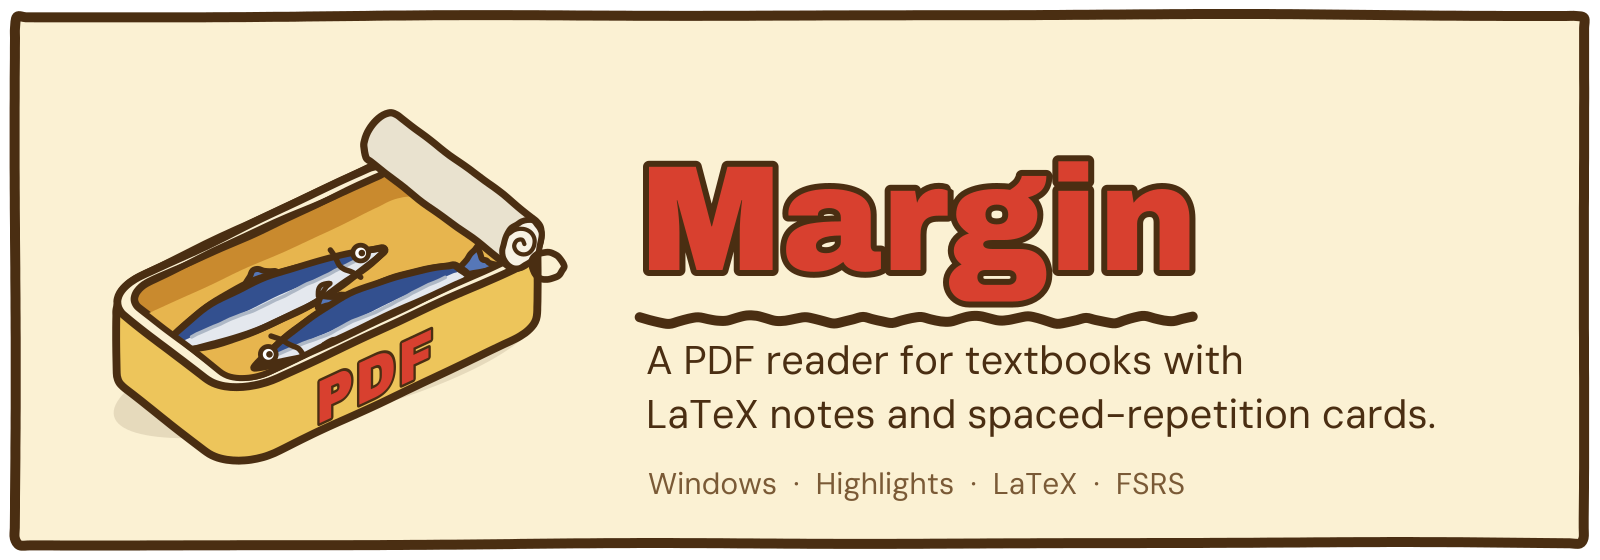
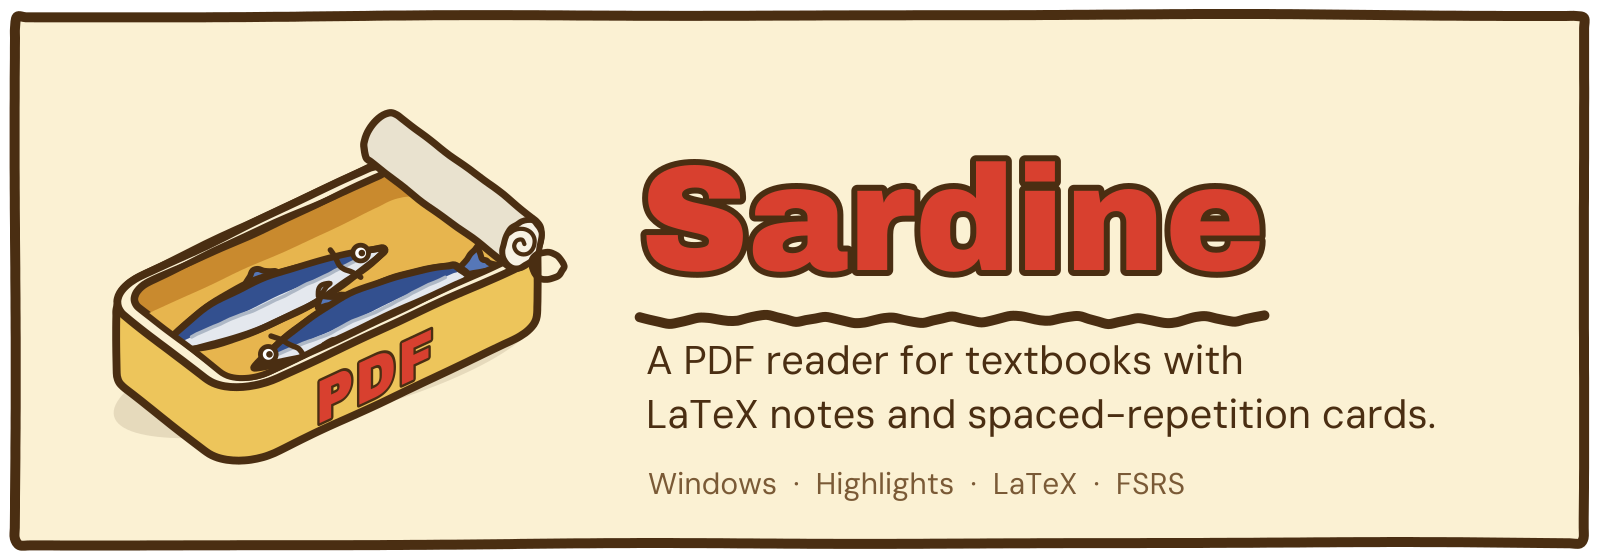
Rename the app from Margin to Sardine
Product name, window and page titles, backup labels, workflow artifact,
README and banner now say Sardine. The bundle identifier stays
com.quant.margin so existing data in %APPDATA% carries over, and old
Margin backups still restore.

Claude-Session: https://claude.ai/code/session_01QyopQMMqGNV7Zxhr1gpHiF

Changed region(s): [[0.375, 0.2732, 0.8125, 0.6071]]

diff --git a/src/lib/exporters.svelte.js b/src/lib/exporters.svelte.js
@@ -28,7 +28,7 @@ const imgsToHtml = (t) => t.replace(/!\[([^\]]*)\]\(([^)\s]+)\)/g, (_, alt, src)
 const imgsToMd = (t) => t.replace(/!\[([^\]]*)\]\(([^)\s]+)\)/g, (_, alt, src) => `![${alt}](${mediaSrc(src)})`);
 const conv = (t) => esc(toAnkiMath(imgsToHtml(t || ''))).replace(/\u0003([^\u0003]*)\u0003/g, '<img src="$1">').replace(/\*\*([^*\n]+)\*\*/g, '<b>$1</b>').replace(/\n/g, '<br>');
 
-/** Mochi/Margin cloze → Anki cloze: {{2::x::hint}} → {{c2::x::hint}}; unnumbered → one shared number. */
+/** Mochi-style cloze → Anki cloze: {{2::x::hint}} → {{c2::x::hint}}; unnumbered → one shared number. */
 function toAnkiCloze(text) {
   const cl = parseClozes(text);
   const used = cl.map((c) => c.group).filter(Boolean);
@@ -104,17 +104,17 @@ export async function exportMarkdown(docId) {
 
 export async function backup() {
   const docs = Object.values($state.snapshot(app.docs));
-  const data = { app: 'margin', version: 3, exportedAt: new Date().toISOString(), settings: $state.snapshot(app.settings), docs, annotations: Object.values($state.snapshot(app.annos)).flat() };
-  if (await saveAs(`margin-backup-${new Date().toISOString().slice(0, 10)}.json`, JSON.stringify(data), 'json', 'Margin backup')) toast('Backup saved');
+  const data = { app: 'sardine', version: 3, exportedAt: new Date().toISOString(), settings: $state.snapshot(app.settings), docs, annotations: Object.values($state.snapshot(app.annos)).flat() };
+  if (await saveAs(`sardine-backup-${new Date().toISOString().slice(0, 10)}.json`, JSON.stringify(data), 'json', 'Sardine backup')) toast('Backup saved');
 }
 
 /** Restore a backup — also accepts backups from the single-file HTML version. */
 export async function restore() {
-  const path = await open({ multiple: false, filters: [{ name: 'Margin backup', extensions: ['json'] }] });
+  const path = await open({ multiple: false, filters: [{ name: 'Sardine backup', extensions: ['json'] }] });
   if (!path) return;
   try {
     const data = JSON.parse(await api.readTextFile(path));
-    if (data.app !== 'margin') throw new Error('Not a Margin backup');
+    if (data.app !== 'sardine' && data.app !== 'margin') throw new Error('Not a Sardine backup');
     for (const d of data.docs || []) {
       const { cover, ...meta } = d;
       const cur = app.docs[meta.id];

diff --git a/src/app.html b/src/app.html
@@ -4,7 +4,7 @@
     <meta charset="utf-8" />
     <link rel="icon" href="%sveltekit.assets%/favicon.png" />
     <meta name="viewport" content="width=device-width, initial-scale=1" />
-    <title>Margin</title>
+    <title>Sardine</title>
     <script>
       // Avoid a white flash before the theme loads.
       try { if (matchMedia('(prefers-color-scheme: dark)').matches) document.documentElement.dataset.theme = 'dark'; } catch {}

diff --git a/src-tauri/src/lib.rs b/src-tauri/src/lib.rs
@@ -229,7 +229,7 @@ fn read_text_file(path: String) -> Result<String, String> {
     std::fs::read_to_string(path).map_err(|e| e.to_string())
 }
 
-/// PDFs passed on the command line (e.g. "Open with Margin").
+/// PDFs passed on the command line (e.g. "Open with Sardine").
 #[tauri::command]
 fn startup_files() -> Vec<String> {
     std::env::args().skip(1).filter(|a| a.to_lowercase().ends_with(".pdf") && Path::new(a).exists()).collect()
@@ -274,5 +274,5 @@ pub fn run() {
             revlog_append, revlog_read, save_media, import_media, media_data_url
         ])
         .run(tauri::generate_context!())
-        .expect("error while running Margin");
+        .expect("error while running Sardine");
 }

diff --git a/README.md b/README.md
@@ -1,5 +1,5 @@
 <p align="center">
-  <img src="docs/banner.png" alt="Margin: a PDF reader for textbooks with LaTeX notes and spaced-repetition cards" width="800">
+  <img src="docs/banner.png" alt="Sardine: a PDF reader for textbooks with LaTeX notes and spaced-repetition cards" width="800">
 </p>
 
 <p align="center">
@@ -14,7 +14,7 @@ A PDF reader for textbooks with highlights, LaTeX notes, and spaced-repetition f
 - **Rust backend** (`src-tauri/`): renders pages with pdfium (`pdfium-render`) on a dedicated worker thread and streams them to the UI through a `pdf://` protocol. It also extracts the text geometry used for selection, plus the outline, metadata, covers and region snips. Books are copied into the app's data folder, and notes, cards and settings are stored as JSON files there.
 - **Svelte frontend** (`src/`): the library, the reader (contents / notes / bookmarks sidebar and page bar), Flashcard mode, the card editor with live KaTeX preview, review, and the light / sepia / dark themes.
 
-Data lives in `%APPDATA%\com.quant.margin\` on Windows (`books\`, `covers\`, `store\*.json`). Settings ▸ shows the exact path.
+Data lives in `%APPDATA%\com.quant.margin\` on Windows (`books\`, `covers\`, `store\*.json`). The folder keeps the app's original name, Margin, so existing notes carry over. Settings ▸ shows the exact path.
 
 ## Get the Windows installer without installing anything (GitHub Actions)
 
@@ -22,13 +22,13 @@ Data lives in `%APPDATA%\com.quant.margin\` on Windows (`books\`, `covers\`, `st
    ```
    git init
    git add .
-   git commit -m "Margin"
+   git commit -m "Sardine"
    git branch -M main
    git remote add origin https://github.com/<you>/margin.git
    git push -u origin main
    ```
 2. On GitHub, open **Actions ▸ Build Windows app**. The first build takes about 10–15 minutes.
-3. When it's green, open the run and download **Margin-windows** under *Artifacts*. Unzip it and run `Margin_0.1.0_x64-setup.exe`.
+3. When it's green, open the run and download **Sardine-windows** under *Artifacts*. Unzip it and run `Sardine_0.1.0_x64-setup.exe`.
    - Windows SmartScreen will warn because the app isn't code-signed. Click **More info ▸ Run anyway**.
 4. To publish a proper release, tag it: `git tag v0.1.0 && git push --tags`. The installer is attached to a GitHub Release.
 
